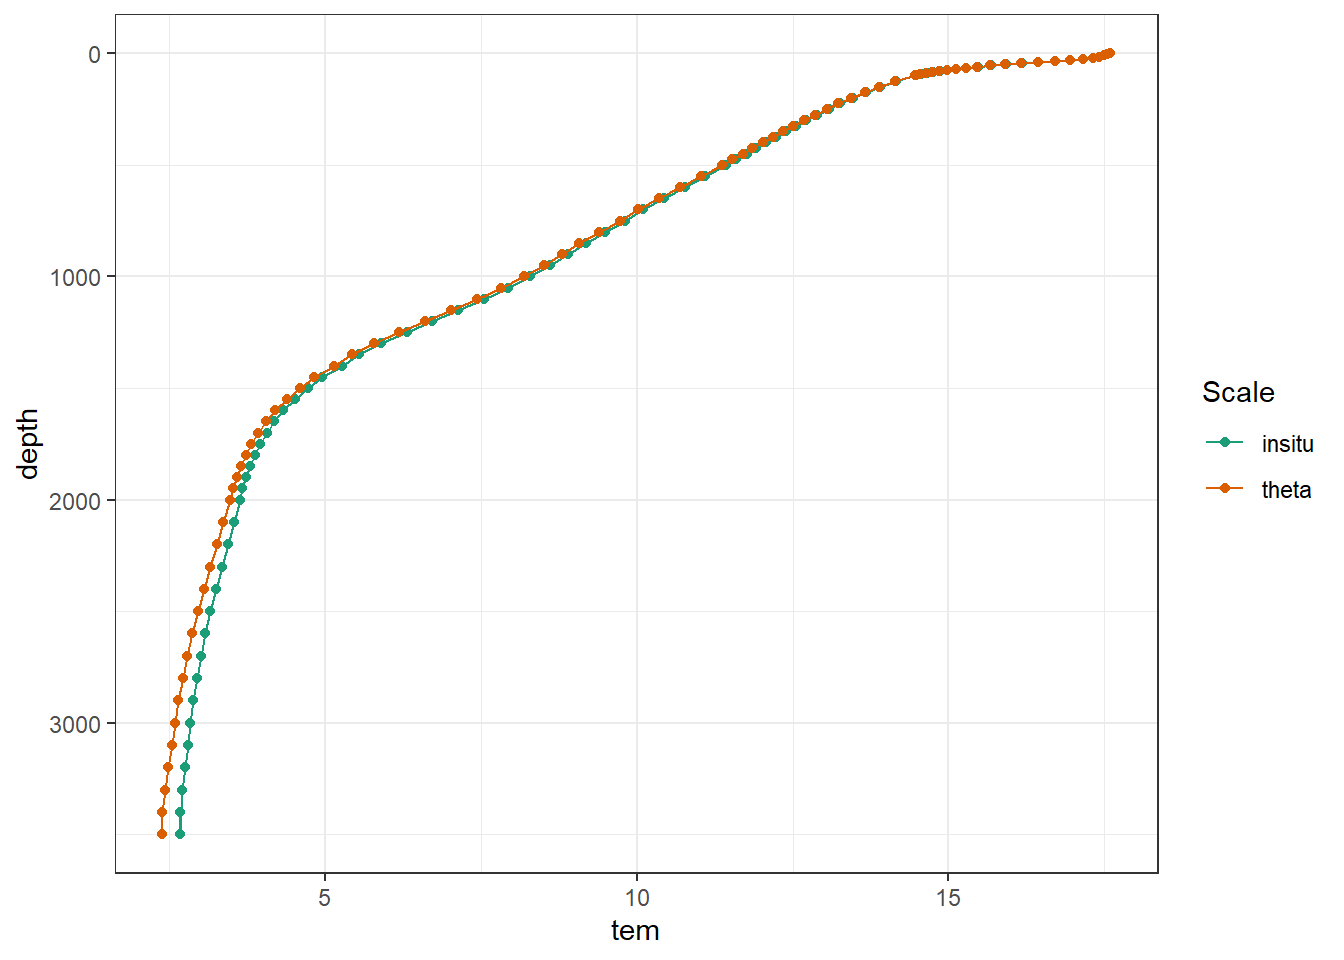
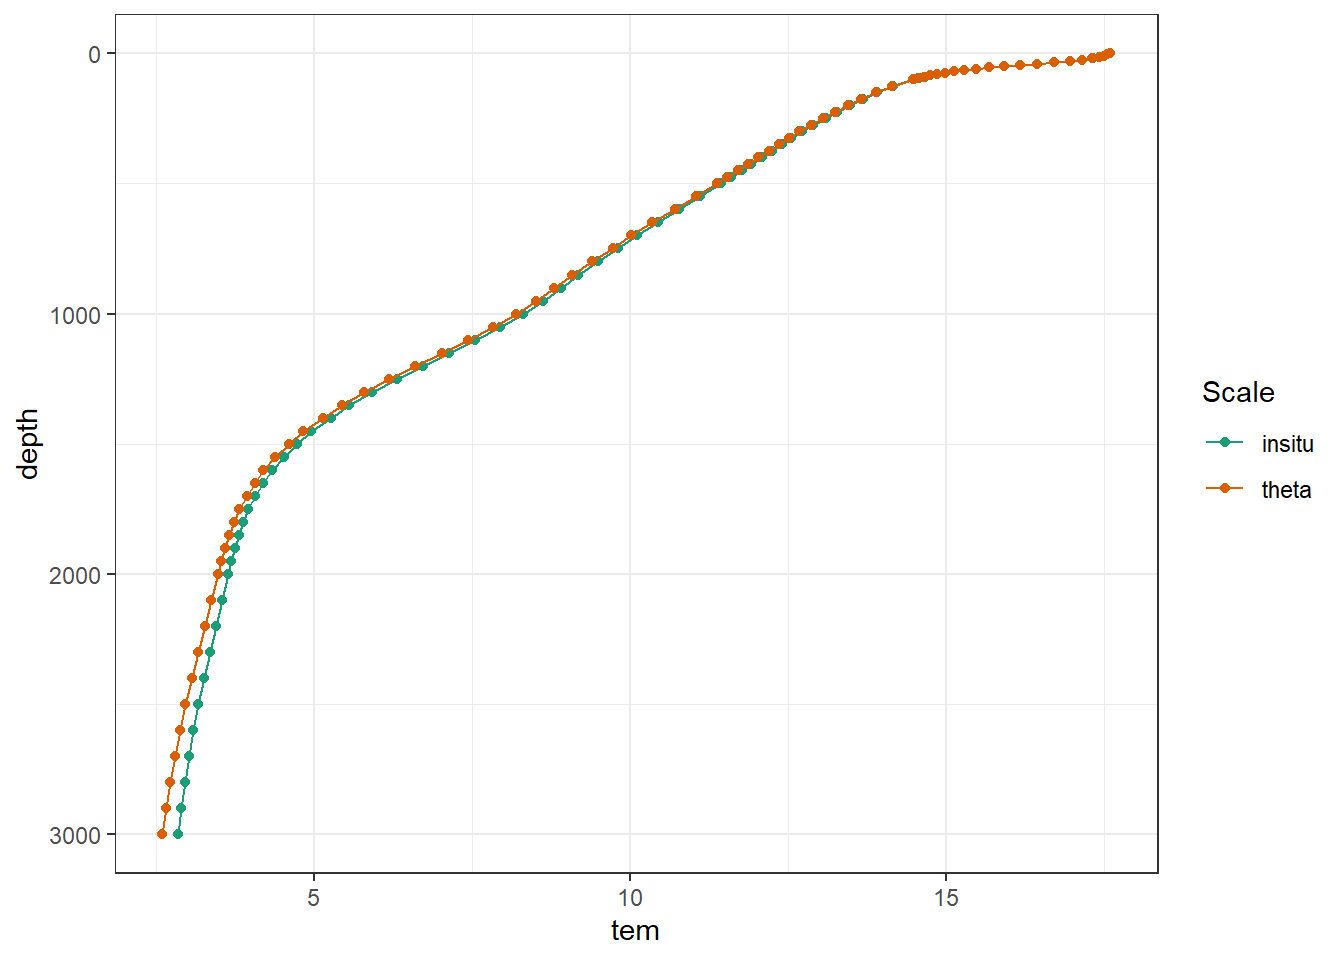
Build site.

diff --git a/docs/read_World_Ocean_Atlas_2018.html b/docs/read_World_Ocean_Atlas_2018.html
@@ -615,16 +615,16 @@ This reproducible <a href="http://rmarkdown.rstudio.com">R Markdown</a> analysis
 <div class="panel panel-default">
 <div class="panel-heading">
 <p class="panel-title">
-<a data-toggle="collapse" data-parent="#workflowr-checks" href="#strongRepositoryversionstrongahrefhttpsgithubcomjensdanielmuellerCanteMLRtree08ea446e75ac58725b16d7441d65a7ef2a44a43dtargetblank08ea446a"> <span class="glyphicon glyphicon-ok text-success" aria-hidden="true"></span> <strong>Repository version:</strong> <a href="https://github.com/jens-daniel-mueller/Cant_eMLR/tree/08ea446e75ac58725b16d7441d65a7ef2a44a43d" target="_blank">08ea446</a> </a>
+<a data-toggle="collapse" data-parent="#workflowr-checks" href="#strongRepositoryversionstrongahrefhttpsgithubcomjensdanielmuellerCanteMLRtree9a1e810c391e33f7e90a5803a2d9e0715bf75438targetblank9a1e810a"> <span class="glyphicon glyphicon-ok text-success" aria-hidden="true"></span> <strong>Repository version:</strong> <a href="https://github.com/jens-daniel-mueller/Cant_eMLR/tree/9a1e810c391e33f7e90a5803a2d9e0715bf75438" target="_blank">9a1e810</a> </a>
 </p>
 </div>
[2 lines of base64/hex data omitted]
 <div class="panel-body">
 <p>
 Great! You are using Git for version control. Tracking code development and connecting the code version to the results is critical for reproducibility.
 </p>
 <p>
-The results in this page were generated with repository version <a href="https://github.com/jens-daniel-mueller/Cant_eMLR/tree/08ea446e75ac58725b16d7441d65a7ef2a44a43d" target="_blank">08ea446</a>. See the <em>Past versions</em> tab to see a history of the changes made to the R Markdown and HTML files.
+The results in this page were generated with repository version <a href="https://github.com/jens-daniel-mueller/Cant_eMLR/tree/9a1e810c391e33f7e90a5803a2d9e0715bf75438" target="_blank">9a1e810</a>. See the <em>Past versions</em> tab to see a history of the changes made to the R Markdown and HTML files.
 </p>
 <p>
 Note that you need to be careful to ensure that all relevant files for the analysis have been committed to Git prior to generating the results (you can use <code>wflow_publish</code> or <code>wflow_git_commit</code>). workflowr only checks the R Markdown file, but you know if there are other scripts or data files that it depends on. Below is the status of the Git repository when the results were generated:
@@ -690,6 +690,40 @@ Message
 </tr>
 </thead>
 <tbody>
+<tr>
+<td>
+Rmd
+</td>
+<td>
+<a href="https://github.com/jens-daniel-mueller/Cant_eMLR/blob/9a1e810c391e33f7e90a5803a2d9e0715bf75438/analysis/read_World_Ocean_Atlas_2018.Rmd" target="_blank">9a1e810</a>
+</td>
+<td>
+jens-daniel-mueller
+</td>
+<td>
+2020-09-08
+</td>
+<td>
+applied depth threshold
+</td>
+</tr>
+<tr>
+<td>
+html
+</td>
+<td>
+<a href="https://rawcdn.githack.com/jens-daniel-mueller/Cant_eMLR/1001303365505618c2bd42686bb71503f99bf802/docs/read_World_Ocean_Atlas_2018.html" target="_blank">1001303</a>
+</td>
+<td>
+jens-daniel-mueller
+</td>
+<td>
+2020-09-08
+</td>
+<td>
+Build site.
+</td>
+</tr>
 <tr>
 <td>
 Rmd
@@ -2816,6 +2850,12 @@ WOA18_predictors_grid &lt;- WOA18_predictors_grid %&gt;%
   select(-bottomdepth)
 
 WOA18_predictors &lt;- left_join(WOA18_predictors_grid, WOA18_predictors)</code></pre>
+<p>Only predictors were taken into consideration with:</p>
+<ul>
+<li>maximum depth: 3000m</li>
+</ul>
+<pre class="r"><code>WOA18_predictors &lt;- WOA18_predictors %&gt;% 
+  filter(depth &lt;= parameters$inventory_depth)</code></pre>
 </div>
 <div id="potential-temperature" class="section level2">
 <h2><span class="header-section-number">3.4</span> Potential temperature</h2>
